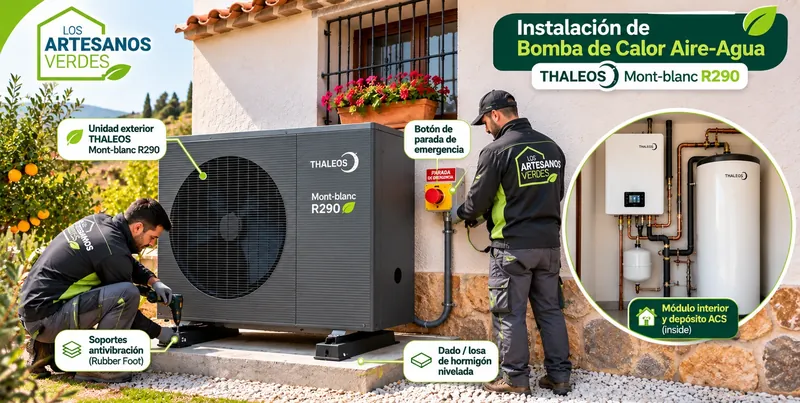
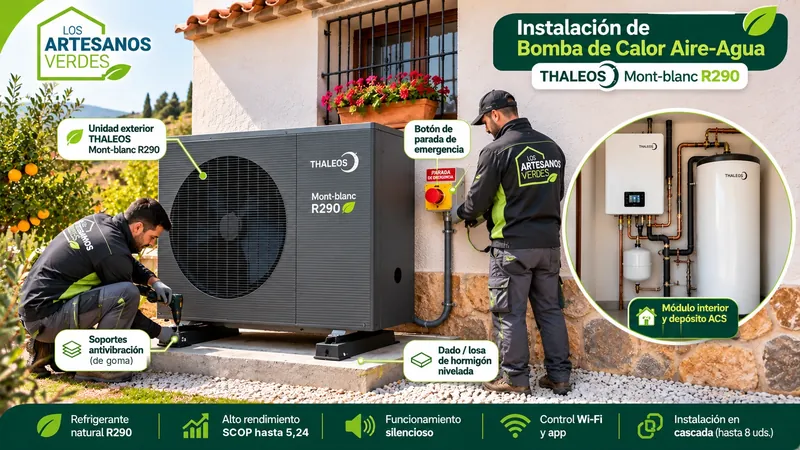
Aerotermia: infografía completa con «SCOP hasta 5,24» según la ficha en español
La ficha técnica en español (marzo de 2025) anuncia «SCOP ≥ 5.24» en la portada,
pero su tabla da 5,24 solo al modelo de 6 kW con agua a 35 °C (8 kW: 5,21;
12 kW: 4,96). Se recupera la franja inferior de la infografía con «SCOP hasta 5,24»,
«(de goma)» en lugar de «(Rubber Foot)» y sin «(inside)»; el pie de foto precisa
el modelo y la temperatura del dato.

Claude-Session: https://claude.ai/code/session_01L2ivQ27Fo3vLhmoN5iVNGB

diff --git a/servicios/aerotermia/index.html b/servicios/aerotermia/index.html
@@ -1010,9 +1010,9 @@
     <figure class="av-instalacion reveal">
       <picture>
         <source type="image/webp" srcset="/assets/servicios/aerotermia-instalacion-thaleos-800.webp 800w, /assets/servicios/aerotermia-instalacion-thaleos.webp 1600w" sizes="(max-width: 1100px) 100vw, 1100px">
-        <img src="/assets/servicios/aerotermia-instalacion-thaleos.jpg" alt="Instalación de una bomba de calor aire-agua Thaleos Mont-blanc R290: unidad exterior sobre una losa de hormigón nivelada con soportes antivibración, seta de parada de emergencia junto al equipo y, dentro de la vivienda, módulo interior con depósito de agua caliente sanitaria" width="1600" height="806" loading="lazy" decoding="async">
+        <img src="/assets/servicios/aerotermia-instalacion-thaleos.jpg" alt="Instalación de una bomba de calor aire-agua Thaleos Mont-blanc R290: unidad exterior sobre una losa de hormigón nivelada con soportes antivibración de goma, seta de parada de emergencia junto al equipo y, dentro de la vivienda, módulo interior con depósito de agua caliente sanitaria. Franja inferior: refrigerante natural R290, SCOP de hasta 5,24, funcionamiento silencioso, control por wifi y app e instalación en cascada de hasta 8 unidades" width="1600" height="900" loading="lazy" decoding="async">
       </picture>
-      <figcaption>Así queda instalada: la unidad exterior sobre una losa de hormigón nivelada y soportes antivibración, y dentro de casa el módulo interior con el depósito de agua caliente. Imagen ilustrativa.</figcaption>
+      <figcaption>Así queda instalada: la unidad exterior sobre una losa de hormigón nivelada y soportes antivibración, y dentro de casa el módulo interior con el depósito de agua caliente. Imagen ilustrativa; datos de la ficha técnica del fabricante (el SCOP de 5,24 corresponde al modelo de 6 kW con agua a 35 °C).</figcaption>
     </figure>
 
     <div class="av-equipo-bloque reveal">
